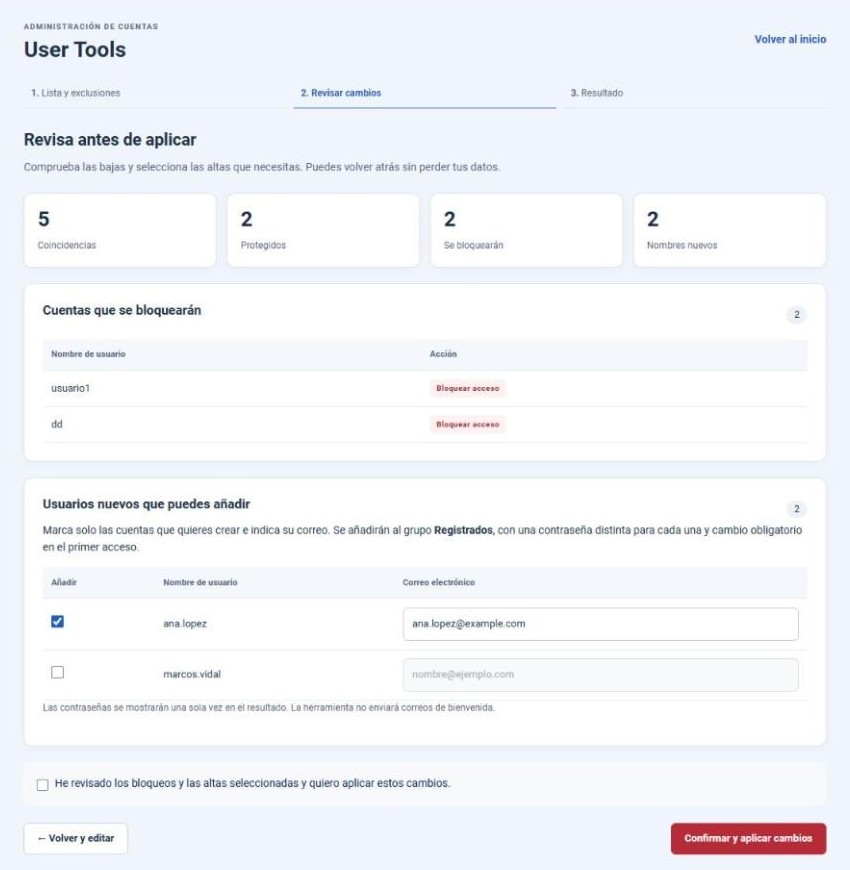
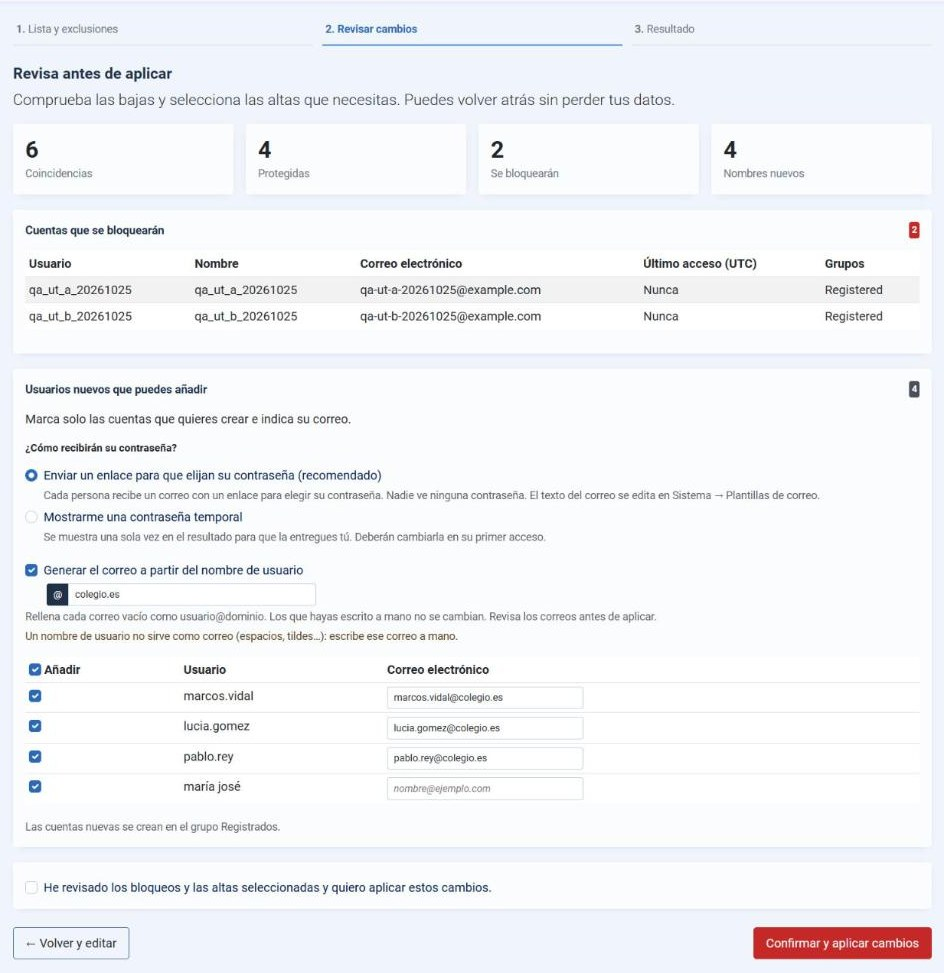
Refresh the comparison review and access screenshots; wider emails
- New 03-comparacion-revision.jpg and 14-grupos-niveles.jpg from the
  Spanish test site (2026.10.12): "tick all", emails built from the
  username, CSV export and the conditional column.
- The new-account email fields had shrunk to fit the table and cut off
  ordinary addresses; they now have a minimum width.
- The email placeholder is a language string instead of Spanish text.

Claude-Session: https://claude.ai/code/session_01WVx7CxBpcuGzXeHpUpPAj1

diff --git a/media/css/admin.css b/media/css/admin.css
@@ -25,6 +25,7 @@
 .ut-app .ut-access-tools .form-control.ut-filter{width:auto;flex:1 1 14rem}
 .ut-access-tools .btn{white-space:nowrap}
 .ut-email-auto .ut-email-domain{max-width:22rem;margin:.35rem 0 0 1.75rem}
+.ut-app input[data-ut-email]{min-width:16rem}
 .ut-instructions li{margin:1.25rem 0}
 .ut-instructions p{margin:.35rem 0 .6rem}
 .ut-secret{user-select:all;overflow-wrap:anywhere}

diff --git a/admin/tmpl/compare/review.php b/admin/tmpl/compare/review.php
@@ -99,7 +99,7 @@ $draft      = $this->draft;
           <tr data-ut-user="<?= $this->escape($key) ?>" data-ut-name="<?= $this->escape($name) ?>">
             <td><input class="form-check-input" type="checkbox" data-ut-add aria-label="<?= Text::sprintf('COM_USERTOOLS_ADD_USER', $this->escape($name)) ?>"<?= $checked ? ' checked' : '' ?>></td>
             <td><?= $this->escape($name) ?></td>
-            <td><input class="form-control form-control-sm" type="email" data-ut-email aria-label="<?= Text::sprintf('COM_USERTOOLS_EMAIL_OF', $this->escape($name)) ?>" value="<?= $this->escape($draft['emails'][$key] ?? '') ?>" placeholder="nombre@ejemplo.com"<?= $checked ? ' required' : ' disabled' ?>></td>
+            <td><input class="form-control form-control-sm" type="email" data-ut-email aria-label="<?= Text::sprintf('COM_USERTOOLS_EMAIL_OF', $this->escape($name)) ?>" value="<?= $this->escape($draft['emails'][$key] ?? '') ?>" placeholder="<?= Text::_('COM_USERTOOLS_EMAIL_PLACEHOLDER') ?>"<?= $checked ? ' required' : ' disabled' ?>></td>
           </tr>
         <?php endforeach; ?>
         </tbody></table></div>

diff --git a/docs/capturas.md b/docs/capturas.md
@@ -10,7 +10,7 @@ Estas capturas compartidas muestran la interfaz en español en Joomla 6.2.0. Las
 
 ![Comparación: lista y exclusiones](screenshots/02-comparacion-lista.jpg)
 
-![Comparación: revisión de cambios](screenshots/03-comparacion-revision.jpg)
+![Comparación: revisión de cambios, con «marcar todas» y el correo generado a partir del nombre de usuario (2026.10.11)](screenshots/03-comparacion-revision.jpg)
 
 ![Comparación: resultado con contraseñas ocultas](screenshots/04-comparacion-resultado.jpg)
 
@@ -38,4 +38,4 @@ Estas capturas compartidas muestran la interfaz en español en Joomla 6.2.0. Las
 
 ![Módulo User Tools en el panel de Usuarios (2026.10.6)](screenshots/13-panel-usuarios.jpg)
 
-![Grupos y niveles de acceso: matriz de grupos por nivel y resumen por nivel (2026.10.9)](screenshots/14-grupos-niveles.jpg)
+![Grupos y niveles de acceso: matriz de grupos por nivel, exportación CSV y resumen por nivel (2026.10.11)](screenshots/14-grupos-niveles.jpg)

diff --git a/docs/screenshots.en.md b/docs/screenshots.en.md
@@ -10,7 +10,7 @@ These shared screenshots show the Spanish interface on Joomla 6.2.0. Deletion sc
 
 ![Comparison: list and exclusions](screenshots/02-comparacion-lista.jpg)
 
-![Comparison: review changes](screenshots/03-comparacion-revision.jpg)
+![Comparison: review changes, with «tick all» and emails built from the username (2026.10.11, Spanish interface)](screenshots/03-comparacion-revision.jpg)
 
 ![Comparison: result with passwords hidden](screenshots/04-comparacion-resultado.jpg)
 
@@ -38,4 +38,4 @@ These shared screenshots show the Spanish interface on Joomla 6.2.0. Deletion sc
 
 ![User Tools module on the Users dashboard (2026.10.6)](screenshots/13-panel-usuarios.jpg)
 
-![Groups and access levels: groups by level matrix and summary by level (2026.10.9)](screenshots/14-grupos-niveles.jpg)
+![Groups and access levels: groups by level matrix, CSV export and summary by level (2026.10.11, Spanish interface)](screenshots/14-grupos-niveles.jpg)
